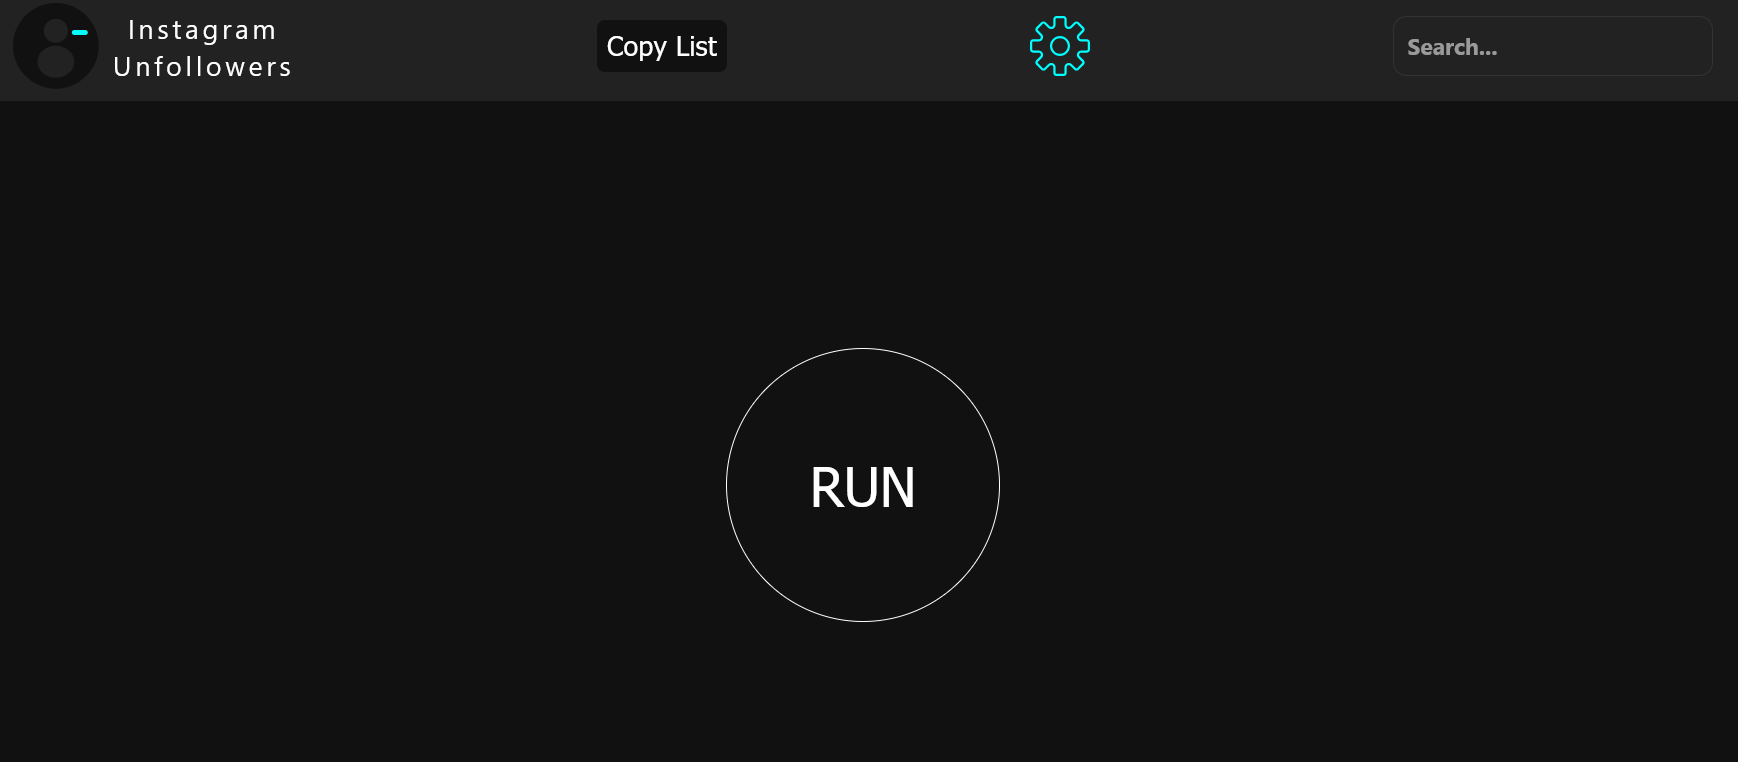
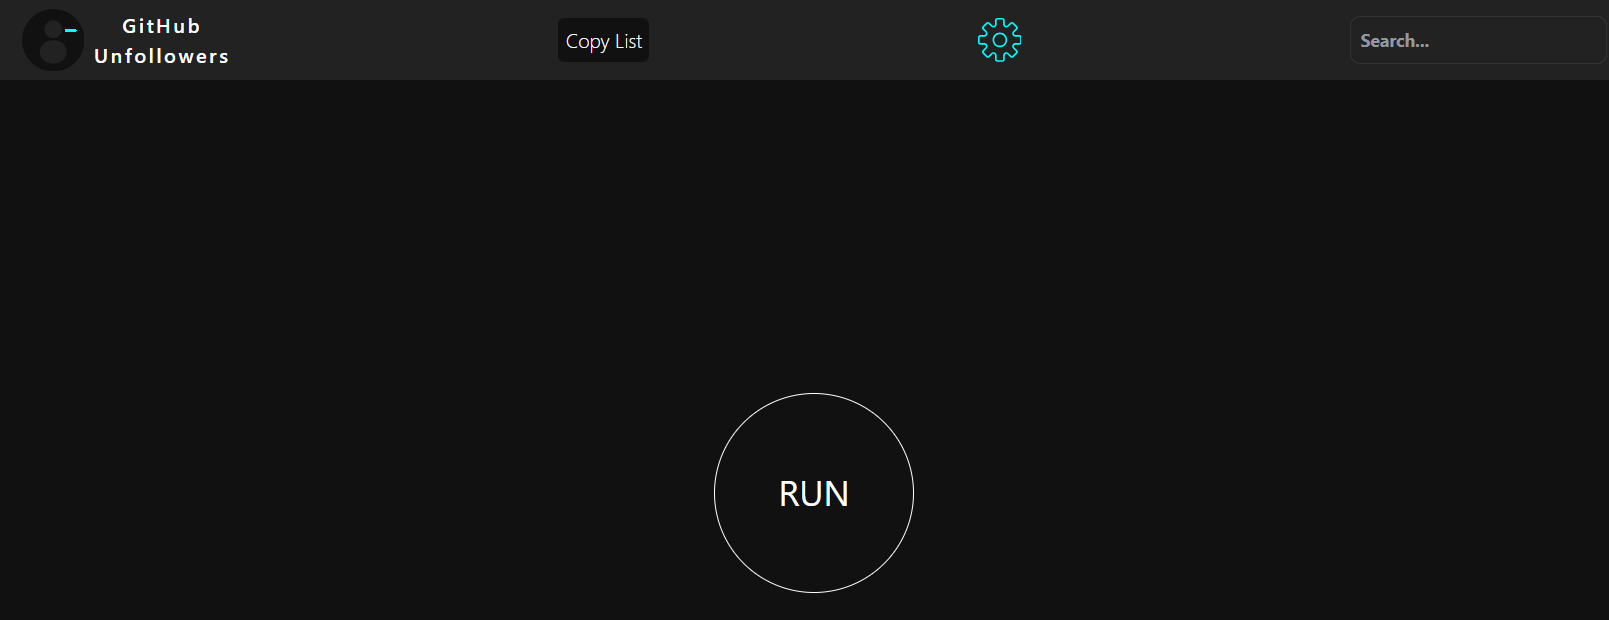
Re-publish GitHub Pages

diff --git a/public/index.html b/public/index.html
@@ -6,53 +6,27 @@
   <title>GitHub Unfollowers</title>
   <meta name="description" content="See who doesn't follow you back on GitHub" />
   <style>
-    :root{
-      --bg:#0b0b0c;--fg:#f3f3f4;--muted:#b5b5b8;--card:#111214;--chip:#161617;--accent:#00e4ff;--btn:#2a2a2e;--btn-fg:#e7e7ea;--btn-hover:#34343a
-    }
-    *{box-sizing:border-box}
-    body{font-family: ui-sans-serif,system-ui,-apple-system,Segoe UI,Roboto,Helvetica,Arial,"Apple Color Emoji","Segoe UI Emoji"; margin:0; background:var(--bg); color:var(--fg)}
-    .container{max-width:860px;margin:0 auto;padding:56px 24px;display:flex;flex-direction:column;align-items:center}
-    .brand{display:flex;align-items:center;gap:16px;margin-bottom:28px}
-    .logo{
-      position:relative;width:42px;height:42px
-    }
-    .logo .dot{position:absolute;width:16px;height:16px;border-radius:50%;background:#2a2a2e;top:8px;left:6px}
-    .logo .dot2{top:18px;left:20px}
-    .logo .dash{position:absolute;width:18px;height:4px;background:var(--accent);top:6px;left:26px;border-radius:3px}
-    h1{font-size:28px;font-weight:700;margin:0;letter-spacing:.2px}
-    .subtitle{color:var(--muted);margin-top:6px}
-    .code-wrap{width:100%;background:var(--chip);border-radius:14px;padding:8px 12px;display:flex;align-items:center;gap:8px;box-shadow:inset 0 0 0 1px rgba(255,255,255,.06)}
-    .code{flex:1;max-height:84px;overflow:auto;font-family:ui-monospace, SFMono-Regular, Menlo, Consolas, monospace;font-size:12px;line-height:1.4;color:#d1d1d4;white-space:pre}
-    .actions{margin:28px 0 12px 0;display:flex;gap:12px;flex-wrap:wrap;justify-content:center}
-    .btn{display:flex;align-items:center;gap:10px;background:var(--btn);color:var(--btn-fg);border:none;border-radius:16px;padding:16px 28px;cursor:pointer;font-weight:600;font-size:16px;box-shadow:0 2px 0 rgba(0,0,0,.3)}
-    .btn:hover{background:var(--btn-hover)}
-    .btn svg{width:20px;height:20px}
-    .hint{color:var(--muted);font-size:12px;margin-top:6px;text-align:center}
+    body{font-family: system-ui, -apple-system, Segoe UI, Roboto, Helvetica, Arial, sans-serif; margin:0; padding:24px; background:#0b0b0c; color:#f3f3f4}
+    .container{max-width:900px;margin:0 auto}
+    h1{font-size:28px;margin:0 0 12px}
+    p{color:#b5b5b8}
+    .actions{margin:20px 0;display:flex;gap:12px;flex-wrap:wrap}
+    button{background:#1f6feb;border:none;color:white;padding:10px 16px;border-radius:8px;cursor:pointer}
+    button.secondary{background:#2d2d30}
+    code, pre{background:#161617;color:#d1d1d4;border-radius:8px}
+    pre{padding:12px;overflow:auto}
+    footer{margin-top:40px;color:#8a8a8f;font-size:12px}
   </style>
 </head>
 <body>
   <div class="container">
-    <div class="brand">
-      <div class="logo">
-        <div class="dot"></div>
-        <div class="dot dot2"></div>
-        <div class="dash"></div>
-      </div>
-      <div>
-        <h1>GitHub Unfollowers</h1>
-        <div class="subtitle">Paste this on github.com to run the tool</div>
-      </div>
-    </div>
-    <div class="code-wrap">
-      <div id="code" class="code"></div>
-    </div>
+    <h1>GitHub Unfollowers</h1>
+    <p>Build generated at 2025-12-30T23:41:12.021Z</p>
     <div class="actions">
-      <button id="copyBtn" class="btn" title="Copy code">
-        <svg viewBox="0 0 24 24" fill="currentColor" aria-hidden="true"><path d="M16 1H4a2 2 0 0 0-2 2v12h2V3h12V1z"/><path d="M20 5H8a2 2 0 0 0-2 2v14a2 2 0 0 0 2 2h12a2 2 0 0 0 2-2V7a2 2 0 0 0-2-2zm0 16H8V7h12v14z"/></svg>
-        Copy code
-      </button>
+      <button id="copyBtn">COPY SCRIPT</button>
+      <button class="secondary" id="downloadBtn">DOWNLOAD dist.js</button>
     </div>
-    <div class="hint">Build time: <span id="buildTime"></span></div>
+    <pre id="preview" hidden></pre>
   </div>
   <script>
     const bundlePath = "../dist/dist.js";
@@ -61,16 +35,6 @@
       if (!res.ok) throw new Error('Failed to load bundle: ' + res.status);
       return await res.text();
     }
-    (async () => {
-      try {
-        const text = await getBundle();
-        const display = text.slice(0, 5000);
-        document.getElementById('code').textContent = display;
-      } catch (e) {
-        document.getElementById('code').textContent = 'Failed to load bundle';
-      }
-      document.getElementById('buildTime').textContent = new Date().toLocaleString();
-    })();
     document.getElementById('copyBtn').addEventListener('click', async () => {
       try {
         const text = await getBundle();

diff --git a/docs/index.html b/docs/index.html
@@ -3,8 +3,8 @@
 <head>
   <meta charset="utf-8" />
   <meta name="viewport" content="width=device-width, initial-scale=1" />
-  <title>Instagram Unfollowers</title>
-  <meta name="description" content="See who doesn't follow you back on Instagram" />
+  <title>GitHub Unfollowers</title>
+  <meta name="description" content="See who doesn't follow you back on GitHub" />
   <style>
     body{font-family: system-ui, -apple-system, Segoe UI, Roboto, Helvetica, Arial, sans-serif; margin:0; padding:24px; background:#0b0b0c; color:#f3f3f4}
     .container{max-width:900px;margin:0 auto}
@@ -20,8 +20,8 @@
 </head>
 <body>
   <div class="container">
-    <h1>Instagram Unfollowers</h1>
-    <p>Build generated at 2025-12-30T21:48:19.698Z</p>
+    <h1>GitHub Unfollowers</h1>
+    <p>Build generated at 2025-12-30T23:41:12.021Z</p>
     <div class="actions">
       <button id="copyBtn">COPY SCRIPT</button>
       <button class="secondary" id="downloadBtn">DOWNLOAD dist.js</button>

diff --git a/src/main.tsx b/src/main.tsx
@@ -13,7 +13,7 @@ import { DEFAULT_TIME_BETWEEN_SEARCH_CYCLES,
 import {
   assertUnreachable,
   getCurrentPageUnfollowers,
-  getUsersForDisplay, sleep,
+  getUsersForDisplay,
 } from "./utils/utils";
 import { scanGithubUsers, unfollowGithubUser } from "./utils/github";
 import { NotSearching } from "./components/NotSearching";
